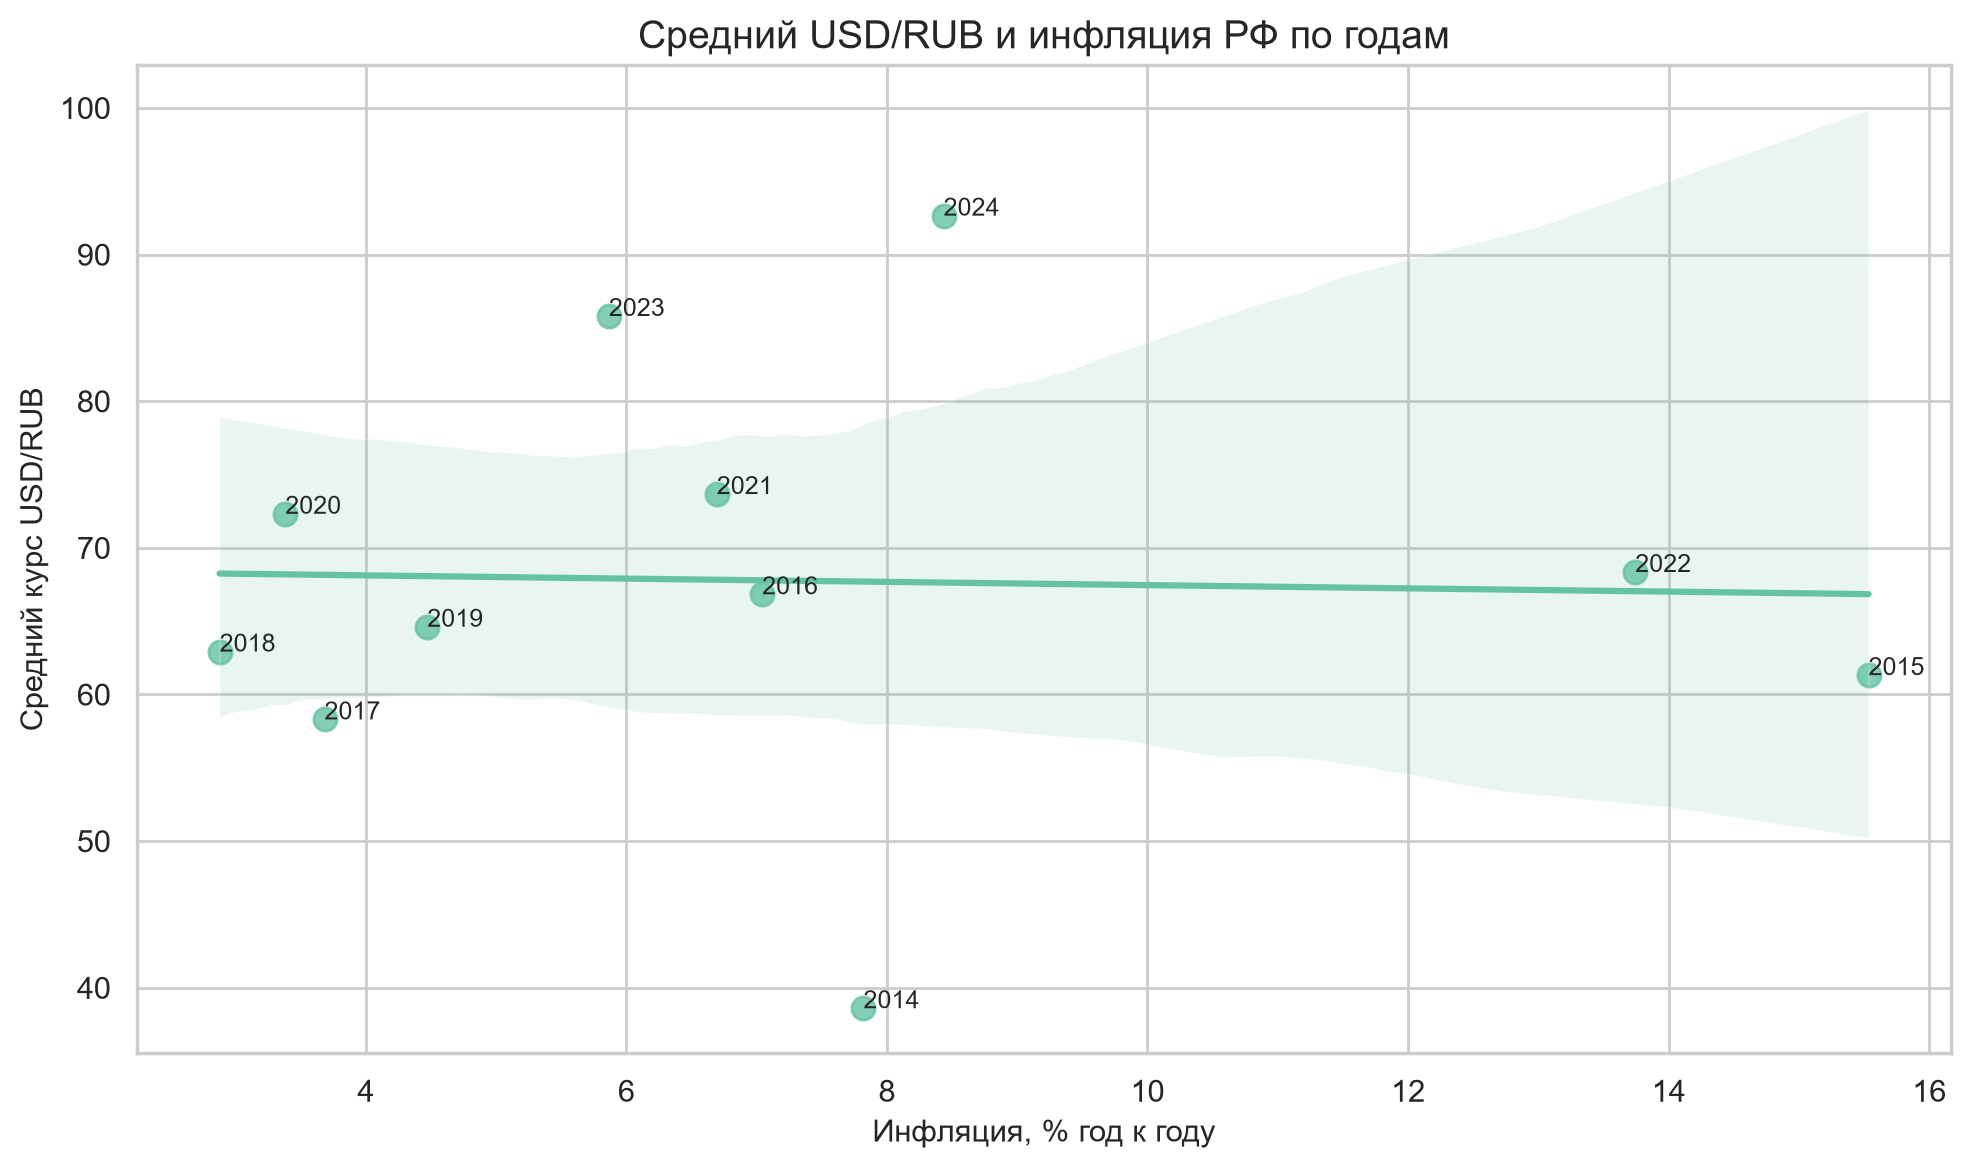
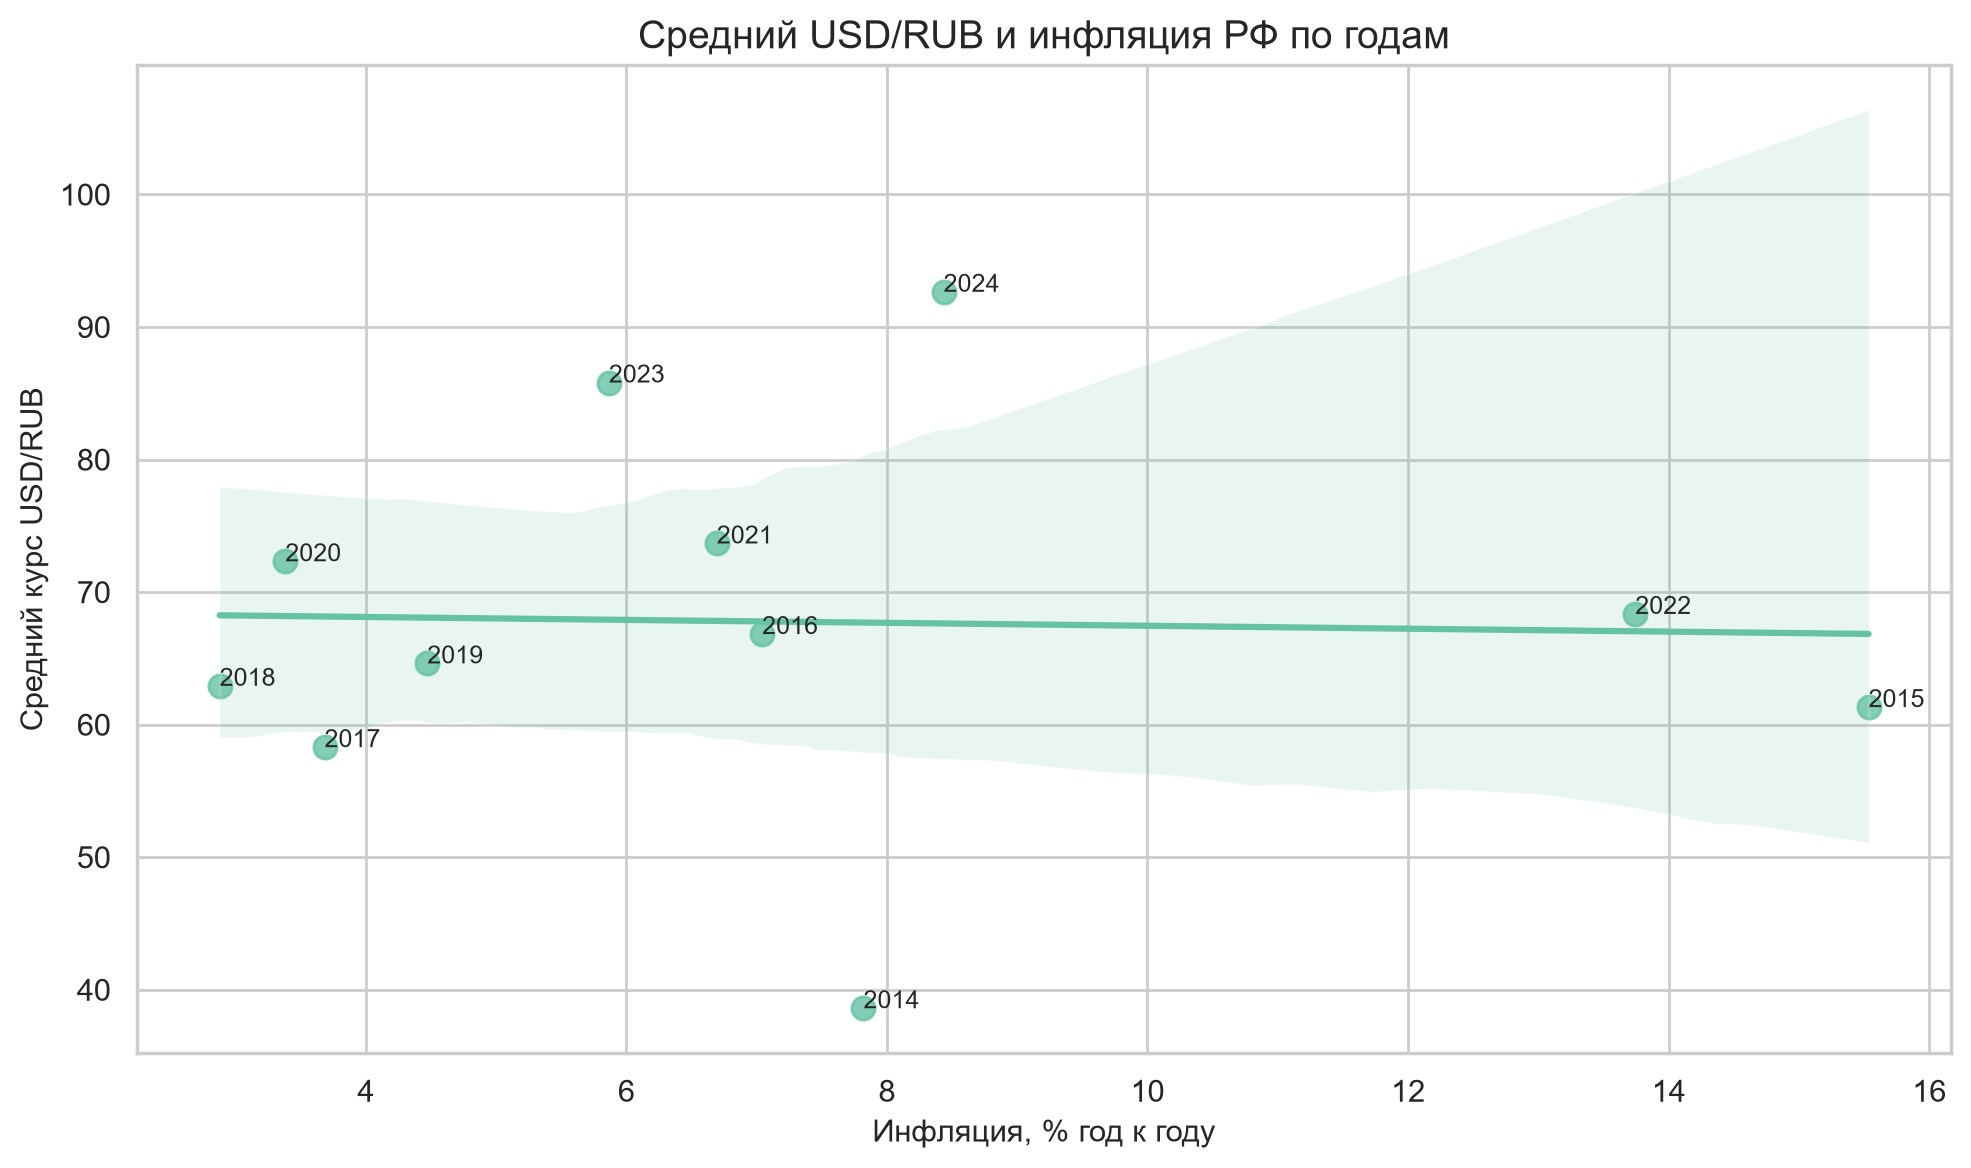
Fix source API links

diff --git a/src/build_notebook.py b/src/build_notebook.py
@@ -120,8 +120,8 @@ def build_notebook() -> nbf.NotebookNode:
             Используются три запроса:
 
             - справочник валют ЦБ РФ: `https://www.cbr.ru/scripts/XML_valFull.asp`;
-            - исторические курсы по каждой валюте: `https://www.cbr.ru/scripts/XML_dynamic.asp`;
-            - макроиндикаторы Всемирного банка: `https://api.worldbank.org/v2/country/RUS/indicator/...`.
+            - исторические курсы по каждой валюте: XML-сервис ЦБ РФ; пример запроса для USD/RUB — `https://www.cbr.ru/scripts/XML_dynamic.asp?date_req1=01%2F01%2F2014&date_req2=12%2F06%2F2026&VAL_NM_RQ=R01235`;
+            - макроиндикаторы Всемирного банка; пример запроса по инфляции РФ — `https://api.worldbank.org/v2/country/RUS/indicator/FP.CPI.TOTL.ZG?format=json&per_page=200`.
 
             Для повторной загрузки данных можно переключить `RUN_DATA_COLLECTION = True`.
             """

diff --git a/README.md b/README.md
@@ -11,8 +11,11 @@
 ## Источники данных
 
 - Банк России, справочник валют: <https://www.cbr.ru/scripts/XML_valFull.asp>
-- Банк России, история курсов: <https://www.cbr.ru/scripts/XML_dynamic.asp>
-- World Bank Open Data API: <https://api.worldbank.org/v2/country/RUS/indicator/>
+- Банк России, XML-сервисы: <https://www.cbr.ru/development/SXML/>
+- Банк России, пример запроса истории USD/RUB: <https://www.cbr.ru/scripts/XML_dynamic.asp?date_req1=01%2F01%2F2014&date_req2=12%2F06%2F2026&VAL_NM_RQ=R01235>
+- World Bank API, инфляция РФ: <https://api.worldbank.org/v2/country/RUS/indicator/FP.CPI.TOTL.ZG?format=json&per_page=200>
+- World Bank API, рост ВВП РФ: <https://api.worldbank.org/v2/country/RUS/indicator/NY.GDP.MKTP.KD.ZG?format=json&per_page=200>
+- World Bank API, официальный курс LCU/USD: <https://api.worldbank.org/v2/country/RUS/indicator/PA.NUS.FCRF?format=json&per_page=200>
 
 ## Что сделано
 
@@ -67,4 +70,3 @@ notebooks/analysis_cbr_currency_rates.ipynb
 - Дневные изменения USD/RUB и EUR/RUB имеют сильную положительную статистически значимую связь.
 - Волатильность USD/RUB в 2022-2023 годах статистически выше, чем в 2017-2019 годах.
 - Регрессионная модель частично объясняет USD/RUB через другие валюты, но высокая мультиколлинеарность ограничивает интерпретацию отдельных коэффициентов.
-